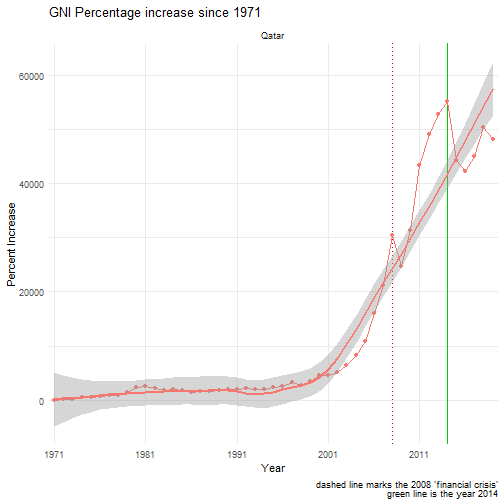
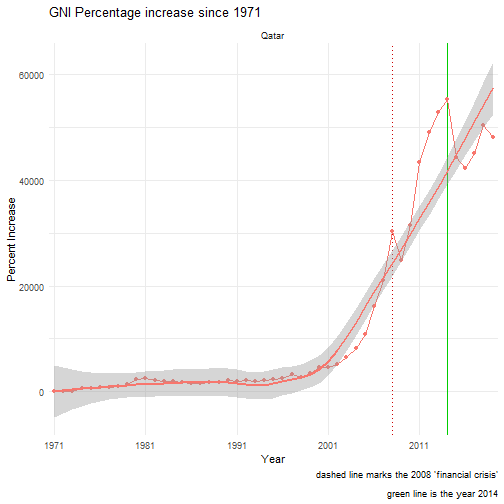
gni (#11)
* Global GNI data

diff --git a/_posts/2021-06-16-global-gni.md b/_posts/2021-06-16-global-gni.md
@@ -1,6 +1,6 @@
 ---
 title: World GNI
-description: Some very high level of global GNI since 1971
+description: Some very high level looking at a selection of countries's GNI since 1971, with a global map plot.
 output: html_document
 category: "population data"
 tags: [r, gni, map]
@@ -12,18 +12,15 @@ tags: [r, gni, map]
 
 Is the sum of value added by all resident producers plus any product taxes (less subsidies) not included in the valuation of output plus net receipts of primary income (compensation of employees and property income) from abroad.
 
-Data are in current U.S. dollars., "World Bank national accounts data, and OECD National Accounts data files.",
-
-Economic Policy & Debt: National accounts: US$ at current prices: Aggregate indicators,Annual,Gap-filled total,"Because development encompasses many factors - economic, environmental, cultural, educational, and institutional - no single measure gives a complete picture. However, the total earnings of the residents of an economy, measured by its gross national income (GNI), is a good measure of its capacity to provide for the well-being of its people.",https://datacatalog.worldbank.org/public-licenses#cc-by
+All data are in current U.S. dollars.
 
 ## Source
 
-<https://datacatalog.worldbank.org/public-licenses#cc-by>
+All data is from the *[World Bank](https://www.worldbank.org/)* and uses a [Creative Commons](https://datacatalog.worldbank.org/public-licenses#cc-by) licence.  Current at 2021-06-23.  Data is found here:
+
+<https://databank.worldbank.org/reports.aspx?source=2&series=NY.GNP.PCAP.CD&country=>
 
 
-```
-## Error in library(Hmisc): there is no package called 'Hmisc'
-```
 
 ## Load the Data
 
@@ -272,7 +269,12 @@ gni_pct %>%
   filter(CountryCode == biggest$CountryCode) %>%
   ggplot(aes(year, percent, group = CountryCode, colour = CountryCode)) +
   geom_vline(xintercept = biggest$year, colour = "green3", size = 0.5) +
-  geom_vline(xintercept = "2008", colour = "red3", size = 0.6, linetype = "dotted") +
+  geom_vline(
+    xintercept = "2008",
+    colour = "red3",
+    size = 0.6,
+    linetype = "dotted"
+  ) +
   geom_line(stat = "identity") +
   geom_point() +
   geom_smooth(method = "loess") +
@@ -283,7 +285,8 @@ gni_pct %>%
     subsitle = "percent increase in GNI, since the previous year",
     x = "Year",
     y = "Percent Increase",
-    caption = "dashed line marks the 2008 'financial crisis'\ngreen line is the year 2014"
+    caption = "dashed line marks the 2008 'financial crisis'\n
+      green line is the year 2014"
   ) +
   theme(legend.position = "none")
 ```
@@ -340,7 +343,7 @@ Hmmmm....
 
 Normally, you may want to take population into account when displaying the "value" of a country.  I don't intend to do that here, so this is one of many, many approaches that could be used to demonstrate the distribution of wealth around the world.
 
-Randomly, I'm selecting 2019 data.  Most countries should have a value (for the interested reader to confirm if this is true!); and the value will not be impacted with the Covid-19 global epidemic.
+Randomly, I'm selecting 2019 data.  Most countries should have a value (for the interested reader to confirm if this is true!); and the value will not be impacted by the Covid-19 global epidemic.
 
 ### Arrange World Data and Create Map Data
 
@@ -351,10 +354,10 @@ world_map$region <- iso.alpha(world_map$region)
 
 gni_map <- gni %>%
   filter(year == 2019) %>%
-  na.omit() %>%
   mutate(
     iso2 = countrycode(CountryCode, origin = "iso3c", destination = "iso2c")
-  )
+  ) %>%
+  na.omit()
 
 gni_map %>%
   filter(iso2 == "NA") %>%
@@ -373,26 +376,42 @@ gni_map %>%
 gni_map$iso2[gni_map$CountryCode == "NAM"] <- "<NA>"
 ```
 
-In this code, we obtain a range (I'm sure this can be done 'automatically', but enough for now!).  Dividing into 8 groups, each group has 22/23 countries - each being within the same range of GNI.  On another project, we could first remove the regions (groups of countries) that are in the data, which may skew the result...
+In this code, we obtain a range (I'm sure this can be done 'automatically', but enough for now!).  Dividing into 8 groups, each group has 28/9 countries - each being within the same range of GNI.  On another project, we could first remove the regions (groups of countries) that are in the data, which may skew the result...
 
 We manually create the list of breaks and labels, based on the result.
 
 
 ```r
-split(gni_map, cut2(gni_map$gni, g = 8))
+table(cut2(gni_map$gni, g = 9))
 ```
 
 ```
-## Error in cut2(gni_map$gni, g = 8): could not find function "cut2"
+## Error in cut2(gni_map$gni, g = 9): could not find function "cut2"
 ```
 
 ```r
-gni_map$ranges <- cut(
+gni_map$range <- cut(
   gni_map$gni,
-  breaks = c(0, 2.7e9, 1.2e10, 1.7e10, 3.75e10, 7.1e10, 2.5e11, 4.5e11, 2.2e13, Inf),
-  labels = c("Under 2.7", "2.7 - 12", "12 - 17", "17 - 37.5", "37.5 - 71", "71 - 250", "250 - 450", "450 - 2,200", "Over 2,200")
+  breaks = c(
+    0, 2.30e9,
+    7.84e9, 1.5e10,
+    2.46e10, 5.27e10,
+    9.53e10, 2.92e11,
+    7.17e11, 2.17e13
+  ),
+  labels = c(
+    "Under 2.30", "2.30 - 7.84",
+    "7.84 - 15.0", "15.0 - 24.0",
+    "24.0 - 52.7", "52.7 - 95.3",
+    "95.3 - 292", "292 - 717",
+    "Over 717"
+  )
 )
 ```
+
+... 9 groups, because that is the max number of colours in the brewer sequential colour palette!
+
+<https://colorbrewer2.org/>
 
 ### Plot the World
 
@@ -400,14 +419,25 @@ gni_map$ranges <- cut(
 ```r
 world <- gni_map %>%
   ggplot() +
-  geom_map(aes(map_id = iso2, fill = (ranges)), map = world_map) +
-  geom_polygon(data = world_map, aes(x = long, y = lat, group = group), colour = "black", fill = NA) +
-  scale_fill_manual(name = "GNI Range", values = (brewer.pal(9, name = "Reds"))) +
-  theme_bw() +
+  geom_map(aes(map_id = iso2, fill = (range)), map = world_map) +
+  geom_polygon(
+    data = world_map, aes(
+      x = long,
+      y = lat,
+      group = group
+    ),
+    colour = "black",
+    fill = NA
+  ) +
+  scale_fill_manual(
+    name = "GNI Range ($000,000,000)",
+    values = (brewer.pal(9, name = "Reds"))
+  ) +
+  theme_void() +
   theme(legend.position = "bottom") +
   labs(
     title = "World map of GNI in 2019",
-    subtitle = "current USD ($) all values in billion dollars (10e9)\n"
+    subtitle = "current USD ($) all values in billion dollars\n"
   )
 
 world
@@ -421,14 +451,20 @@ world
 ```r
 world +
   scale_x_continuous(limits = c(-13, 40), expand = c(0, 0)) +
-  scale_y_continuous(limits = c(33, 73), expand = c(0, 0))
+  scale_y_continuous(limits = c(33, 73), expand = c(0, 0)) +
+  labs(title = "Europe map of GNI in 2019")
 ```
 
 ![plot of chunk europe-plot](/figure/R/2021-06-16-global-gni/europe-plot-1.png)
 
-Clearly, North America, much of Europe and Asia are all in the top 23 countries of GNI.  For some, this is the sheer size of the country, and others actually have higher wealth.
+It is probably no surprise that North America, much of Europe and Asia are all in the top 2 groups of GNI.
+
+For some, this is the sheer size of the country, but individuals in less populated countries actually have higher wealth.
 
 ## Conclusion
 
-... Much more to do ...
-Many more places to go.  This has been great learning for **R**, but perhaps I should write more conclusions!!
+...Much more to do...
+
+Many more places to go.
+
+This has been great learning for **R**, but perhaps I should write more conclusions!!
